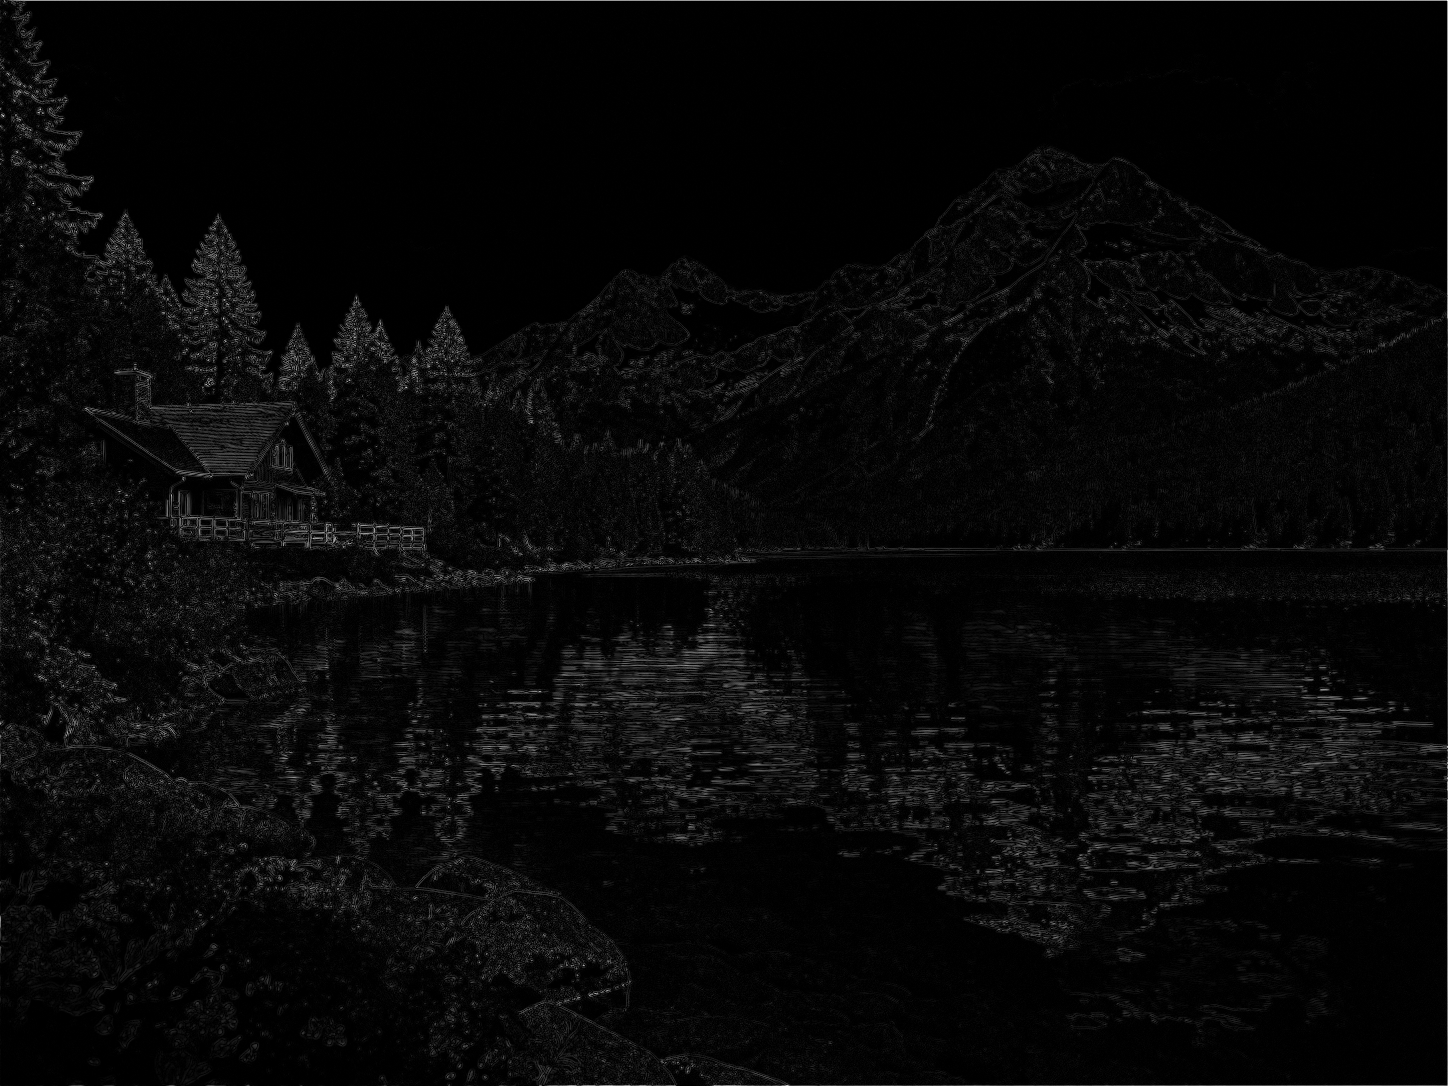
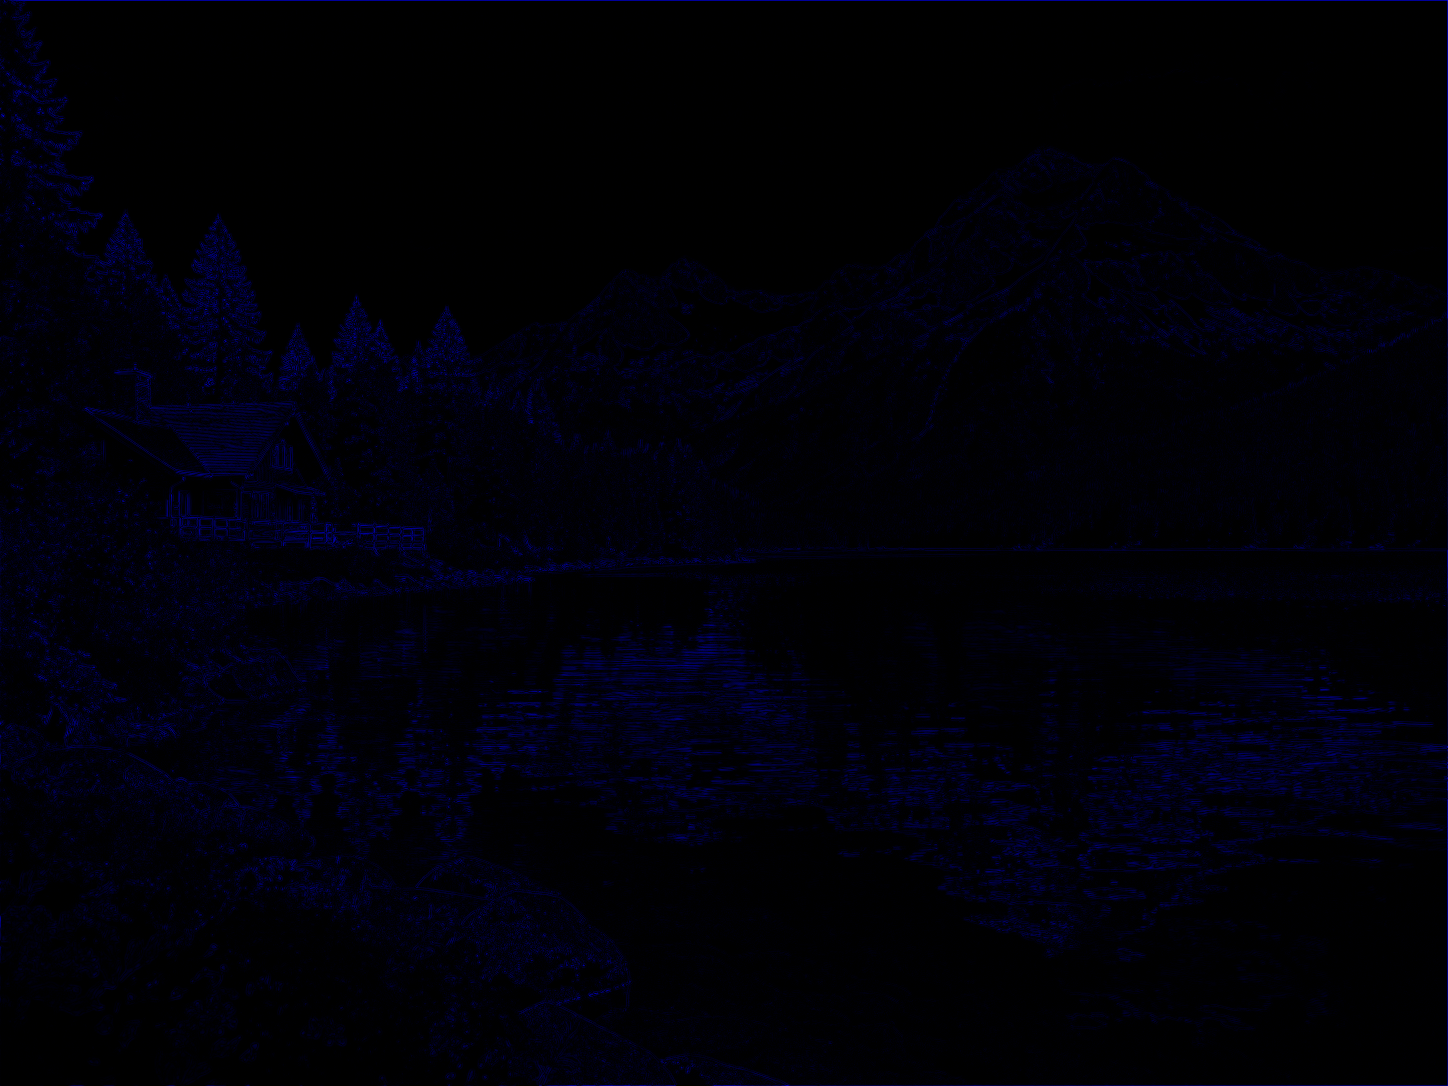
Update script to save individual feature maps in true RGB colors

diff --git a/rgb_convolution.py b/rgb_convolution.py
@@ -92,16 +92,29 @@ def main():
         axis=2
     )
 
-    # Save results
-    Image.fromarray(red_feature).save(
+    # Get height and width for creating 3-channel colored arrays
+    height, width = red_feature.shape
+
+    # Create true-color versions for individual channels
+    red_colored = np.zeros((height, width, 3), dtype=np.uint8)
+    red_colored[:, :, 0] = red_feature  # Put values only in Red channel
+
+    green_colored = np.zeros((height, width, 3), dtype=np.uint8)
+    green_colored[:, :, 1] = green_feature  # Put values only in Green channel
+
+    blue_colored = np.zeros((height, width, 3), dtype=np.uint8)
+    blue_colored[:, :, 2] = blue_feature  # Put values only in Blue channel
+
+    # Save results with actual colors
+    Image.fromarray(red_colored).save(
         f"{output_dir}/red_feature_map.png"
     )
 
-    Image.fromarray(green_feature).save(
+    Image.fromarray(green_colored).save(
         f"{output_dir}/green_feature_map.png"
     )
 
-    Image.fromarray(blue_feature).save(
+    Image.fromarray(blue_colored).save(
         f"{output_dir}/blue_feature_map.png"
     )
 
